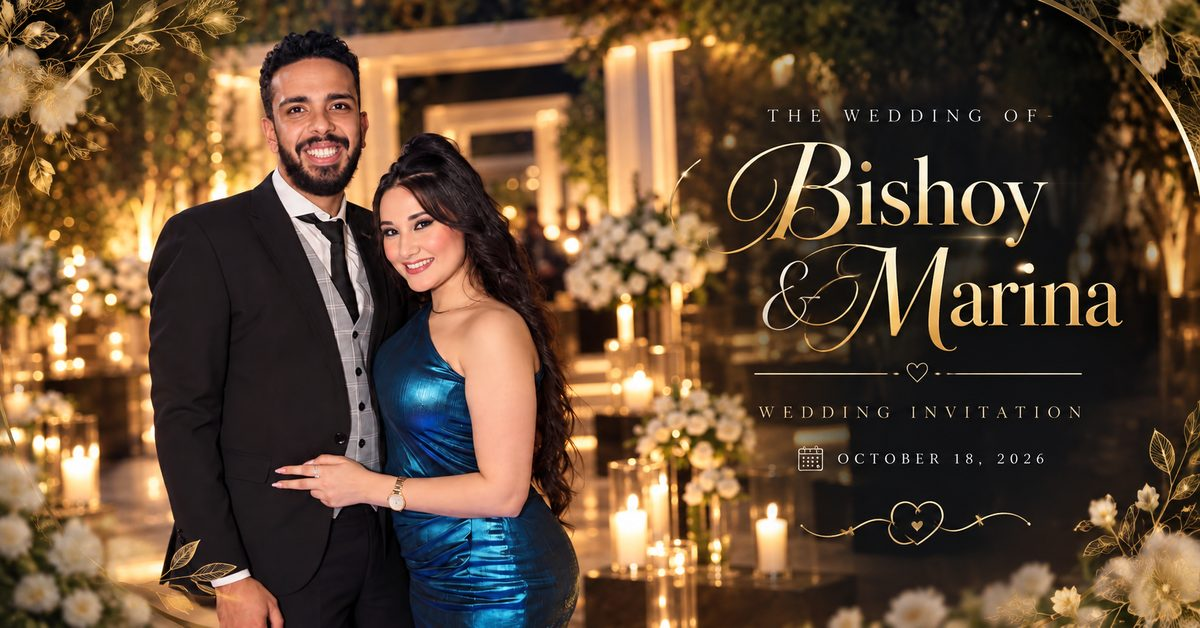
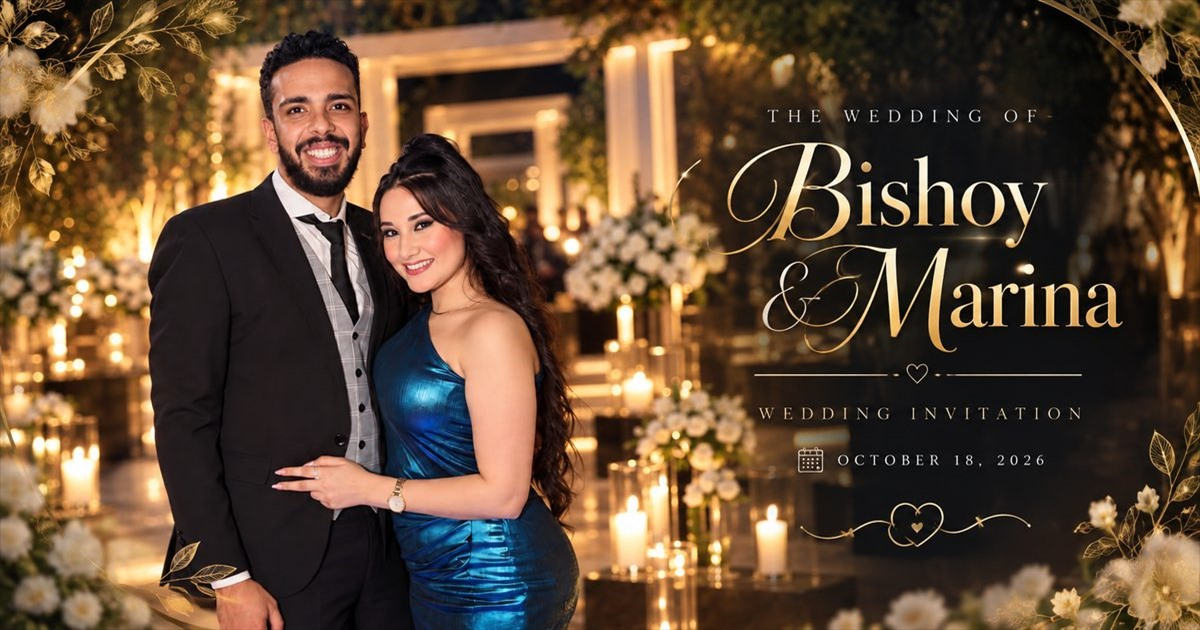
Fix social preview metadata

diff --git a/index.html b/index.html
@@ -19,12 +19,13 @@
 
     <!-- Social sharing (Open Graph) — absolute HTTPS URLs, never /public/… and
          never relative, so WhatsApp / Facebook / Messenger / Telegram / X can
-         fetch the preview image. The optimized JPEG is the shared preview;
-         the original invitation-preview.png is kept in public/images/ as a
-         fallback. og:image:width/height describe the declared 1200x630 card. -->
-    <link rel="canonical" href="https://bishoymarina-wedding.netlify.app/" />
+         fetch the preview image. Every production URL below points at the
+         Cloudflare Workers deployment. The optimized JPEG is the shared
+         preview (exactly 1200x630); the original invitation-preview.png is
+         kept in public/images/ as a fallback. -->
+    <link rel="canonical" href="https://bishoy-marina-wedding.abanoubsamaan123.workers.dev/" />
     <meta property="og:type" content="website" />
-    <meta property="og:url" content="https://bishoymarina-wedding.netlify.app/" />
+    <meta property="og:url" content="https://bishoy-marina-wedding.abanoubsamaan123.workers.dev/" />
     <meta property="og:title" content="Bishoy &amp; Marina" />
     <meta property="og:description" content="Wedding Invitation • October 18, 2026" />
     <meta property="og:site_name" content="Bishoy &amp; Marina" />
